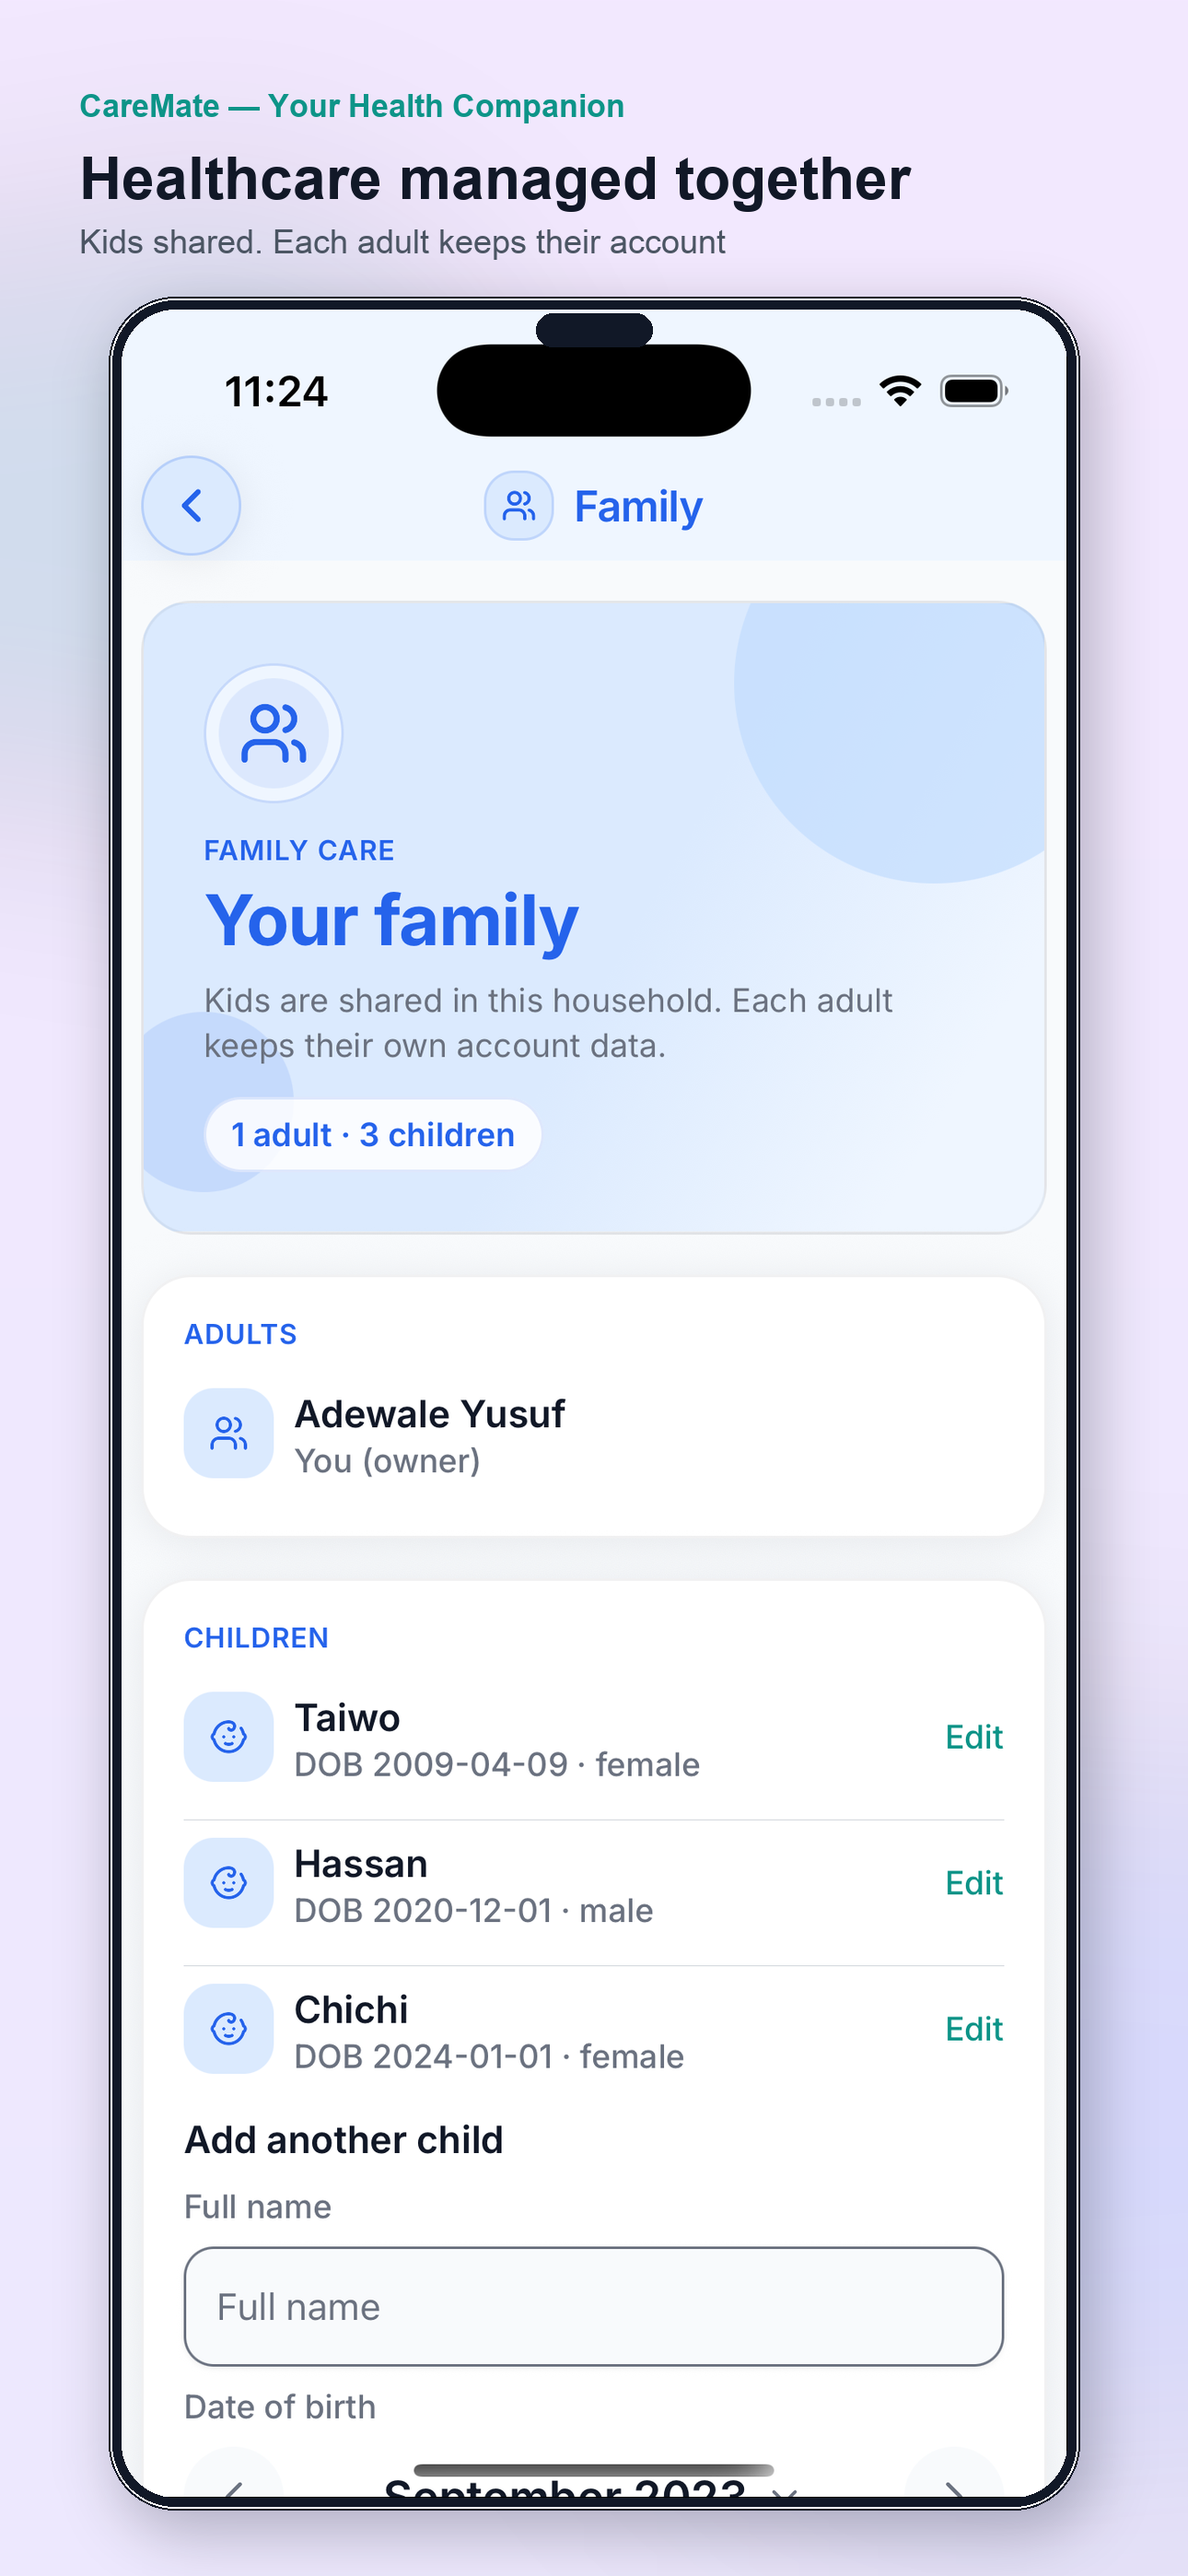
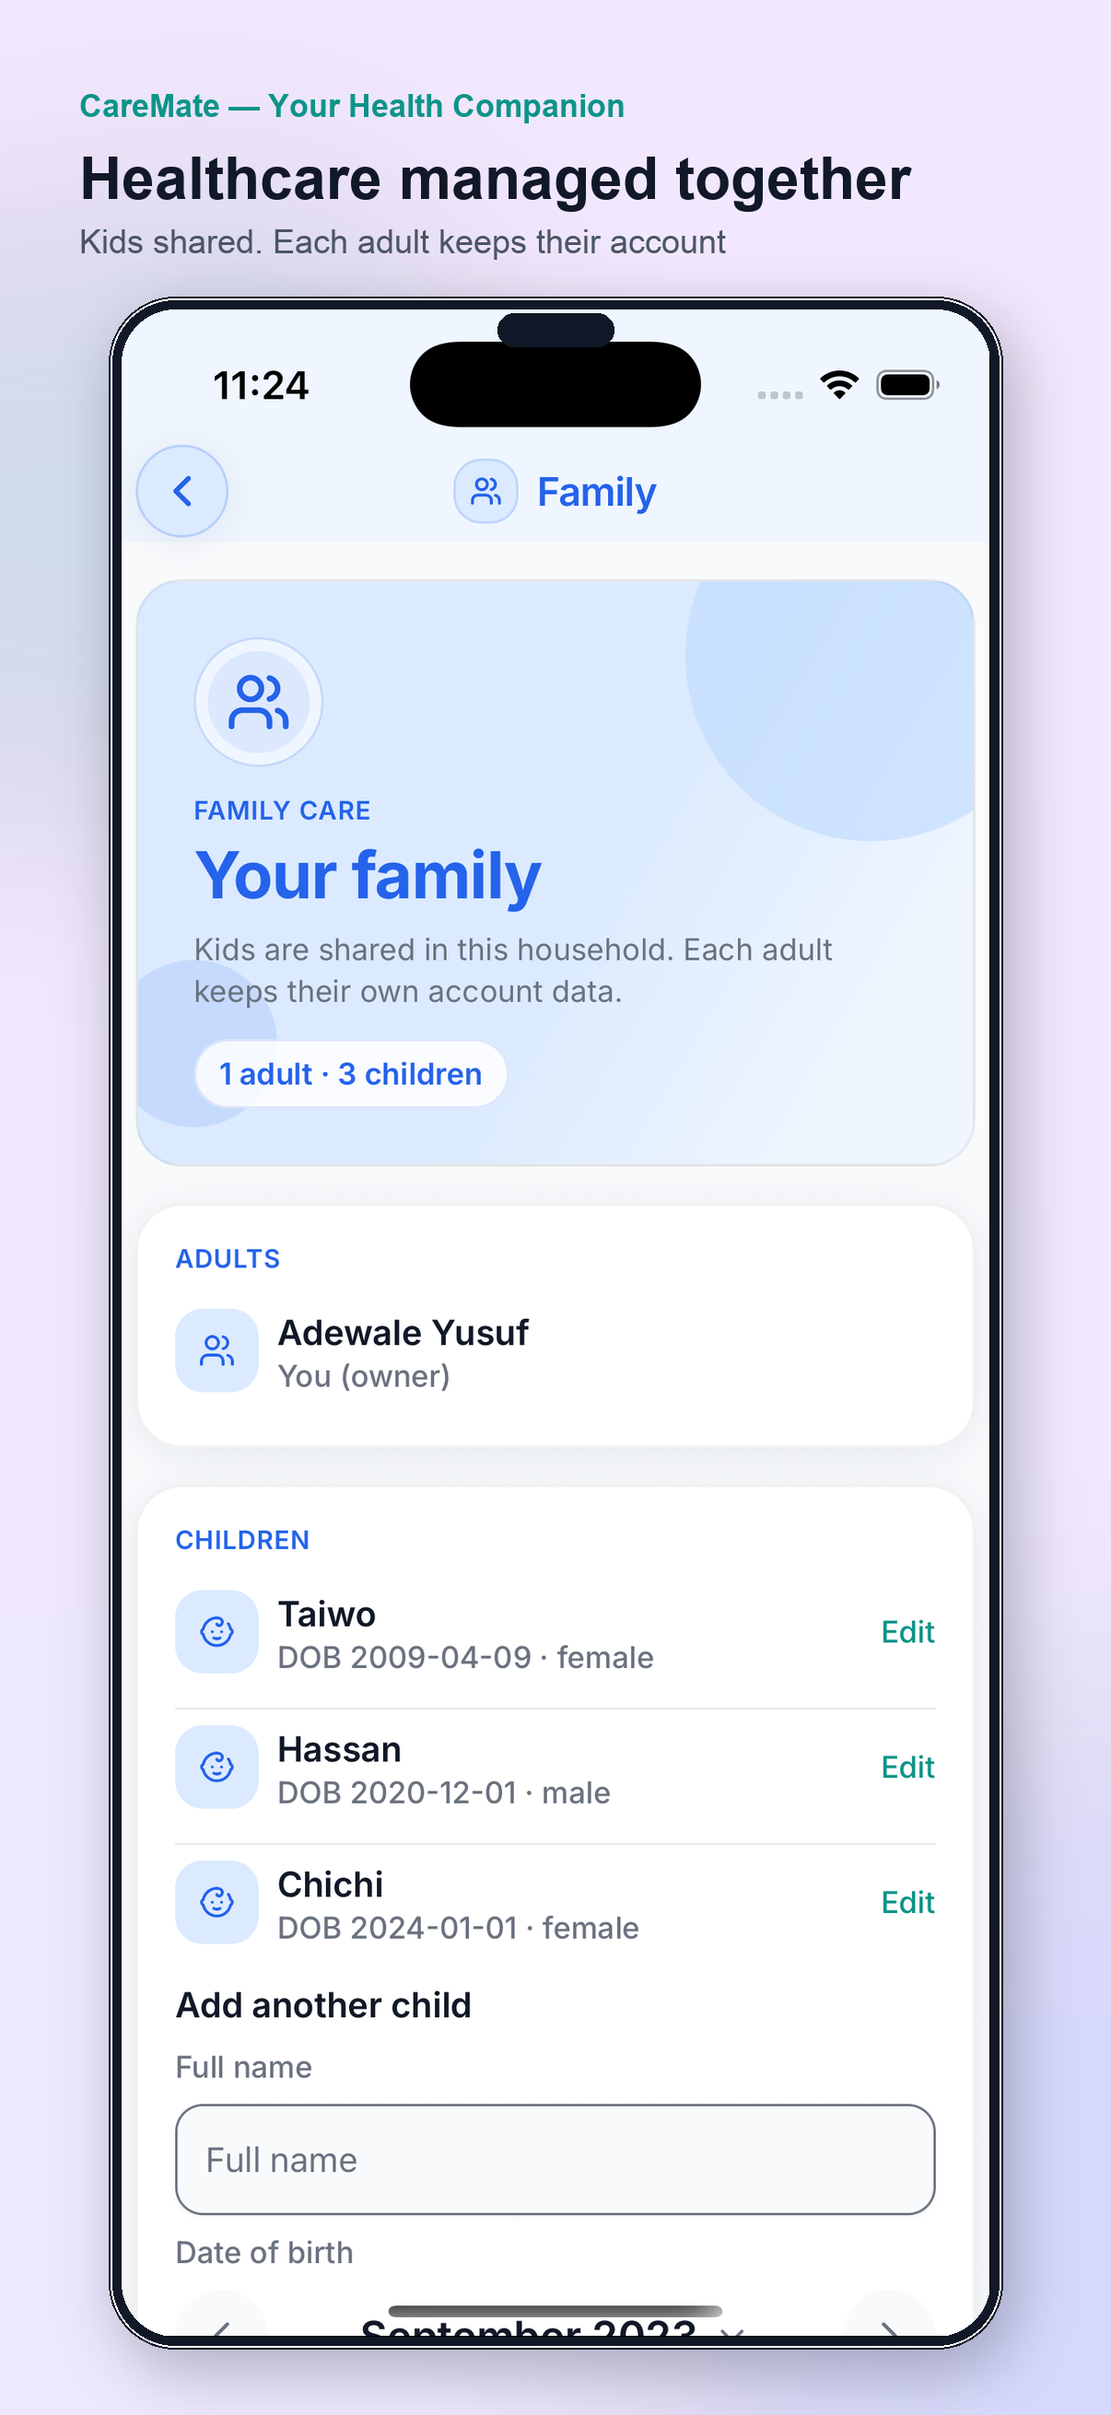
Fix store images

diff --git a/caremate-mobile/assets/store-screenshots/make_app_store_header.py b/caremate-mobile/assets/store-screenshots/make_app_store_header.py
@@ -1,0 +1,175 @@
+#!/usr/bin/env python3
+"""Generate App Store Connect header assets (5244×2950 and 3840×1646)."""
+
+from __future__ import annotations
+
+from pathlib import Path
+
+from PIL import Image, ImageDraw, ImageFilter, ImageFont
+
+ROOT = Path(__file__).resolve().parent
+ICON = ROOT.parent / "images" / "caremate-icon.png"
+
+# ASC header sizes (pick either when uploading).
+SIZES = (
+    (5244, 2950, "app-store-header-5244x2950.png"),
+    (3840, 1646, "app-store-header-3840x1646.png"),
+)
+
+TEAL = (13, 148, 136)
+TEAL_DARK = (15, 118, 110)
+SOFT = (204, 251, 241)
+BLUE_SOFT = (219, 234, 254)
+TEXT = (15, 23, 42)
+MUTED = (51, 65, 85)
+BLUE = (37, 99, 235)
+
+
+def load_font(size: int, bold: bool = False) -> ImageFont.ImageFont:
+    candidates = [
+        "/System/Library/Fonts/Supplemental/Arial Bold.ttf"
+        if bold
+        else "/System/Library/Fonts/Supplemental/Arial.ttf",
+        "/System/Library/Fonts/Supplemental/Helvetica.ttc",
+        "/usr/share/fonts/truetype/dejavu/DejaVuSans-Bold.ttf"
+        if bold
+        else "/usr/share/fonts/truetype/dejavu/DejaVuSans.ttf",
+    ]
+    for path in candidates:
+        try:
+            return ImageFont.truetype(path, size=size, index=0)
+        except OSError:
+            continue
+    return ImageFont.load_default()
+
+
+def render(w: int, h: int) -> Image.Image:
+    # Scale layout from the Play 1024×500 feature graphic proportions.
+    sx = w / 1024
+    sy = h / 500
+    s = min(sx, sy)
+
+    canvas = Image.new("RGBA", (w, h))
+    draw = ImageDraw.Draw(canvas)
+    for x in range(w):
+        t = x / max(w - 1, 1)
+        color = tuple(int(SOFT[i] + (BLUE_SOFT[i] - SOFT[i]) * t) for i in range(3))
+        draw.line([(x, 0), (x, h)], fill=(*color, 255))
+
+    def blob(cx: int, cy: int, radius: int, color: tuple[int, int, int], alpha: int) -> None:
+        overlay = Image.new("RGBA", (w, h), (0, 0, 0, 0))
+        ImageDraw.Draw(overlay).ellipse(
+            (cx - radius, cy - radius, cx + radius, cy + radius),
+            fill=(*color, alpha),
+        )
+        canvas.alpha_composite(overlay.filter(ImageFilter.GaussianBlur(max(radius // 2, 1))))
+
+    blob(int(120 * sx), int(80 * sy), int(180 * s), TEAL, 55)
+    blob(int(900 * sx), int(420 * sy), int(220 * s), BLUE, 40)
+    blob(int(700 * sx), int(60 * sy), int(140 * s), TEAL, 30)
+    # Extra atmosphere for the taller 16:9 canvas
+    if h / w > 0.55:
+        blob(int(0.82 * w), int(0.22 * h), int(0.28 * h), TEAL, 28)
+        blob(int(0.18 * w), int(0.78 * h), int(0.32 * h), BLUE, 32)
+
+    icon = Image.open(ICON).convert("RGBA")
+    icon_size = max(int(280 * s), 1)
+    resample = getattr(Image, "Resampling", Image).LANCZOS
+    icon = icon.resize((icon_size, icon_size), resample)
+
+    card = max(int(300 * s), 1)
+    # Center the icon+copy block vertically; keep horizontal rhythm like Play graphic.
+    block_h = card
+    card_x = int(72 * sx)
+    card_y = (h - block_h) // 2
+
+    shadow = Image.new("RGBA", (w, h), (0, 0, 0, 0))
+    ImageDraw.Draw(shadow).rounded_rectangle(
+        (
+            card_x + int(8 * s),
+            card_y + int(12 * s),
+            card_x + card + int(8 * s),
+            card_y + card + int(12 * s),
+        ),
+        radius=max(int(48 * s), 8),
+        fill=(15, 23, 42, 55),
+    )
+    canvas.alpha_composite(shadow.filter(ImageFilter.GaussianBlur(max(int(18 * s), 4))))
+
+    card_layer = Image.new("RGBA", (w, h), (0, 0, 0, 0))
+    ImageDraw.Draw(card_layer).rounded_rectangle(
+        (card_x, card_y, card_x + card, card_y + card),
+        radius=max(int(48 * s), 8),
+        fill=(255, 255, 255, 245),
+    )
+    canvas.alpha_composite(card_layer)
+
+    ix = card_x + (card - icon_size) // 2
+    iy = card_y + (card - icon_size) // 2
+    canvas.paste(icon, (ix, iy), icon)
+
+    draw = ImageDraw.Draw(canvas)
+    title_font = load_font(max(int(72 * s), 24), bold=True)
+    tag_font = load_font(max(int(34 * s), 16), bold=False)
+    chip_font = load_font(max(int(20 * s), 14), bold=True)
+
+    text_left = card_x + card + int(48 * sx)
+    # Vertically center copy relative to the icon card.
+    title = "CareMate"
+    tagline = "Your Health Companion"
+    title_bbox = draw.textbbox((0, 0), title, font=title_font)
+    tag_bbox = draw.textbbox((0, 0), tagline, font=tag_font)
+    title_h = title_bbox[3] - title_bbox[1]
+    tag_h = tag_bbox[3] - tag_bbox[1]
+    bar_h = max(int(6 * s), 4)
+    gap_title_bar = max(int(18 * s), 8)
+    gap_bar_tag = max(int(22 * s), 10)
+    gap_tag_chips = max(int(36 * s), 16)
+    chip_h = max(int(20 * s), 14) + max(int(10 * s), 6) * 2
+    copy_h = title_h + gap_title_bar + bar_h + gap_bar_tag + tag_h + gap_tag_chips + chip_h
+    text_top = card_y + (card - copy_h) // 2
+
+    draw.text((text_left, text_top), title, font=title_font, fill=TEXT)
+    bar_y = text_top + title_h + gap_title_bar
+    draw.rounded_rectangle(
+        (text_left, bar_y, text_left + int(120 * s), bar_y + bar_h),
+        radius=max(int(3 * s), 2),
+        fill=TEAL,
+    )
+    tag_y = bar_y + bar_h + gap_bar_tag
+    draw.text((text_left, tag_y), tagline, font=tag_font, fill=MUTED)
+
+    chip_y = tag_y + tag_h + gap_tag_chips
+    chips = ["Emergency", "Learn", "Nearby", "Family"]
+    x = text_left
+    pad_x = max(int(16 * s), 10)
+    pad_y = max(int(10 * s), 6)
+    for label in chips:
+        tw = int(draw.textlength(label, font=chip_font))
+        w_chip = tw + pad_x * 2
+        h_chip = max(int(20 * s), 14) + pad_y * 2
+        chip = Image.new("RGBA", (w, h), (0, 0, 0, 0))
+        ImageDraw.Draw(chip).rounded_rectangle(
+            (x, chip_y, x + w_chip, chip_y + h_chip),
+            radius=max(int(20 * s), 10),
+            fill=(255, 255, 255, 210),
+        )
+        canvas.alpha_composite(chip)
+        draw = ImageDraw.Draw(canvas)
+        draw.text((x + pad_x, chip_y + pad_y - max(int(s), 1)), label, font=chip_font, fill=TEAL_DARK)
+        x += w_chip + max(int(12 * s), 8)
+
+    return canvas.convert("RGB")
+
+
+def main() -> None:
+    for w, h, name in SIZES:
+        out_path = ROOT / name
+        img = render(w, h)
+        assert img.size == (w, h), img.size
+        img.save(out_path, format="PNG", optimize=True)
+        print(f"Wrote {out_path} ({out_path.stat().st_size // 1024} KB, {w}x{h})")
+
+
+if __name__ == "__main__":
+    main()

diff --git a/caremate-mobile/assets/store-screenshots/make_ios_screenshots.py b/caremate-mobile/assets/store-screenshots/make_ios_screenshots.py
@@ -1,5 +1,9 @@
 #!/usr/bin/env python3
-"""Compose App Store phone screenshots (1290×2796) from iOS Simulator captures."""
+"""Compose App Store phone screenshots (1206×2622) from iOS Simulator captures.
+
+1206×2622 is the portrait size ASC accepts for iPhone 6.1″ / 6.3″ displays
+(alongside 1179×2556). Older 1290×2796 (6.5″/6.7″) is rejected in that slot.
+"""
 
 from __future__ import annotations
 
@@ -13,7 +17,8 @@ ROOT = Path(__file__).resolve().parent
 CAPTIONS_PATH = ROOT / "ios-captions.json"
 OUTPUT_DIR = ROOT / "app-store-phone"
 
-CANVAS_W, CANVAS_H = 1290, 2796
+# iPhone 6.3″ portrait (also accepted for the 6.1″ / 6.3″ App Store slot).
+CANVAS_W, CANVAS_H = 1206, 2622
 BRAND_COLOR = (13, 148, 136)  # #0D9488
 TEXT_DARK = (17, 24, 39)  # #111827
 TEXT_MUTED = (75, 85, 99)  # #4B5563
@@ -124,48 +129,49 @@ def compose_one(screen: dict, brand_line: str) -> Image.Image:
     soft_blob(canvas, (1080, 2300), 420, (37, 99, 235), alpha=28)
 
     draw = ImageDraw.Draw(canvas)
-    brand_font = load_font(34, bold=True)
-    headline_font = load_font(64, bold=True)
-    subline_font = load_font(36, bold=False)
+    brand_font = load_font(32, bold=True)
+    headline_font = load_font(58, bold=True)
+    subline_font = load_font(34, bold=False)
 
-    margin_x = 86
+    margin_x = 80
     text_width = CANVAS_W - margin_x * 2
 
-    brand_y = 96
+    brand_y = 88
     draw.text((margin_x, brand_y), brand_line, font=brand_font, fill=BRAND_COLOR)
 
     headline_lines = wrap_text(draw, screen["headline"], headline_font, text_width)
-    headline_y = brand_y + 62
-    line_gap = 10
+    headline_y = brand_y + 56
+    line_gap = 8
+    headline_line_h = 58
     for i, line in enumerate(headline_lines[:3]):
         draw.text(
-            (margin_x, headline_y + i * (64 + line_gap)),
+            (margin_x, headline_y + i * (headline_line_h + line_gap)),
             line,
             font=headline_font,
             fill=TEXT_DARK,
         )
-    headline_block_h = len(headline_lines[:3]) * (64 + line_gap)
+    headline_block_h = len(headline_lines[:3]) * (headline_line_h + line_gap)
 
-    sub_y = headline_y + headline_block_h + 10
+    sub_y = headline_y + headline_block_h + 8
     sub_lines = wrap_text(draw, screen["subline"], subline_font, text_width)
     for i, line in enumerate(sub_lines[:2]):
         draw.text(
-            (margin_x, sub_y + i * (36 + 8)),
+            (margin_x, sub_y + i * (34 + 8)),
             line,
             font=subline_font,
             fill=TEXT_MUTED,
         )
-    sub_block_h = max(1, len(sub_lines[:2])) * (36 + 8)
-    text_bottom = sub_y + sub_block_h + 36
+    sub_block_h = max(1, len(sub_lines[:2])) * (34 + 8)
+    text_bottom = sub_y + sub_block_h + 32
 
     # iPhone geometry — thinner bezel, taller corners.
-    side_pad = 118
-    bezel = 14
-    corner = 72
-    screen_corner = 58
+    side_pad = 108
+    bezel = 12
+    corner = 66
+    screen_corner = 54
     phone_w = CANVAS_W - side_pad * 2
     phone_top = text_bottom
-    phone_bottom_pad = 72
+    phone_bottom_pad = 64
     phone_h = CANVAS_H - phone_top - phone_bottom_pad
     phone_x = side_pad
     phone_y = phone_top
@@ -173,11 +179,11 @@ def compose_one(screen: dict, brand_line: str) -> Image.Image:
     shadow = Image.new("RGBA", canvas.size, (0, 0, 0, 0))
     shadow_draw = ImageDraw.Draw(shadow)
     shadow_draw.rounded_rectangle(
-        (phone_x + 12, phone_y + 22, phone_x + phone_w + 12, phone_y + phone_h + 22),
+        (phone_x + 10, phone_y + 18, phone_x + phone_w + 10, phone_y + phone_h + 18),
         radius=corner,
         fill=(15, 23, 42, 70),
     )
-    shadow = shadow.filter(ImageFilter.GaussianBlur(32))
+    shadow = shadow.filter(ImageFilter.GaussianBlur(28))
     canvas.alpha_composite(shadow)
 
     bezel_layer = Image.new("RGBA", canvas.size, (0, 0, 0, 0))
@@ -212,13 +218,13 @@ def compose_one(screen: dict, brand_line: str) -> Image.Image:
     canvas.alpha_composite(rounded)
 
     # Subtle Dynamic Island on the bezel top edge (decorative).
-    island_w, island_h = 126, 36
+    island_w, island_h = 118, 34
     island_x = phone_x + (phone_w - island_w) // 2
-    island_y = phone_y + 18
+    island_y = phone_y + 16
     island = ImageDraw.Draw(canvas)
     island.rounded_rectangle(
         (island_x, island_y, island_x + island_w, island_y + island_h),
-        radius=18,
+        radius=17,
         fill=(*BEZEL, 255),
     )
 
